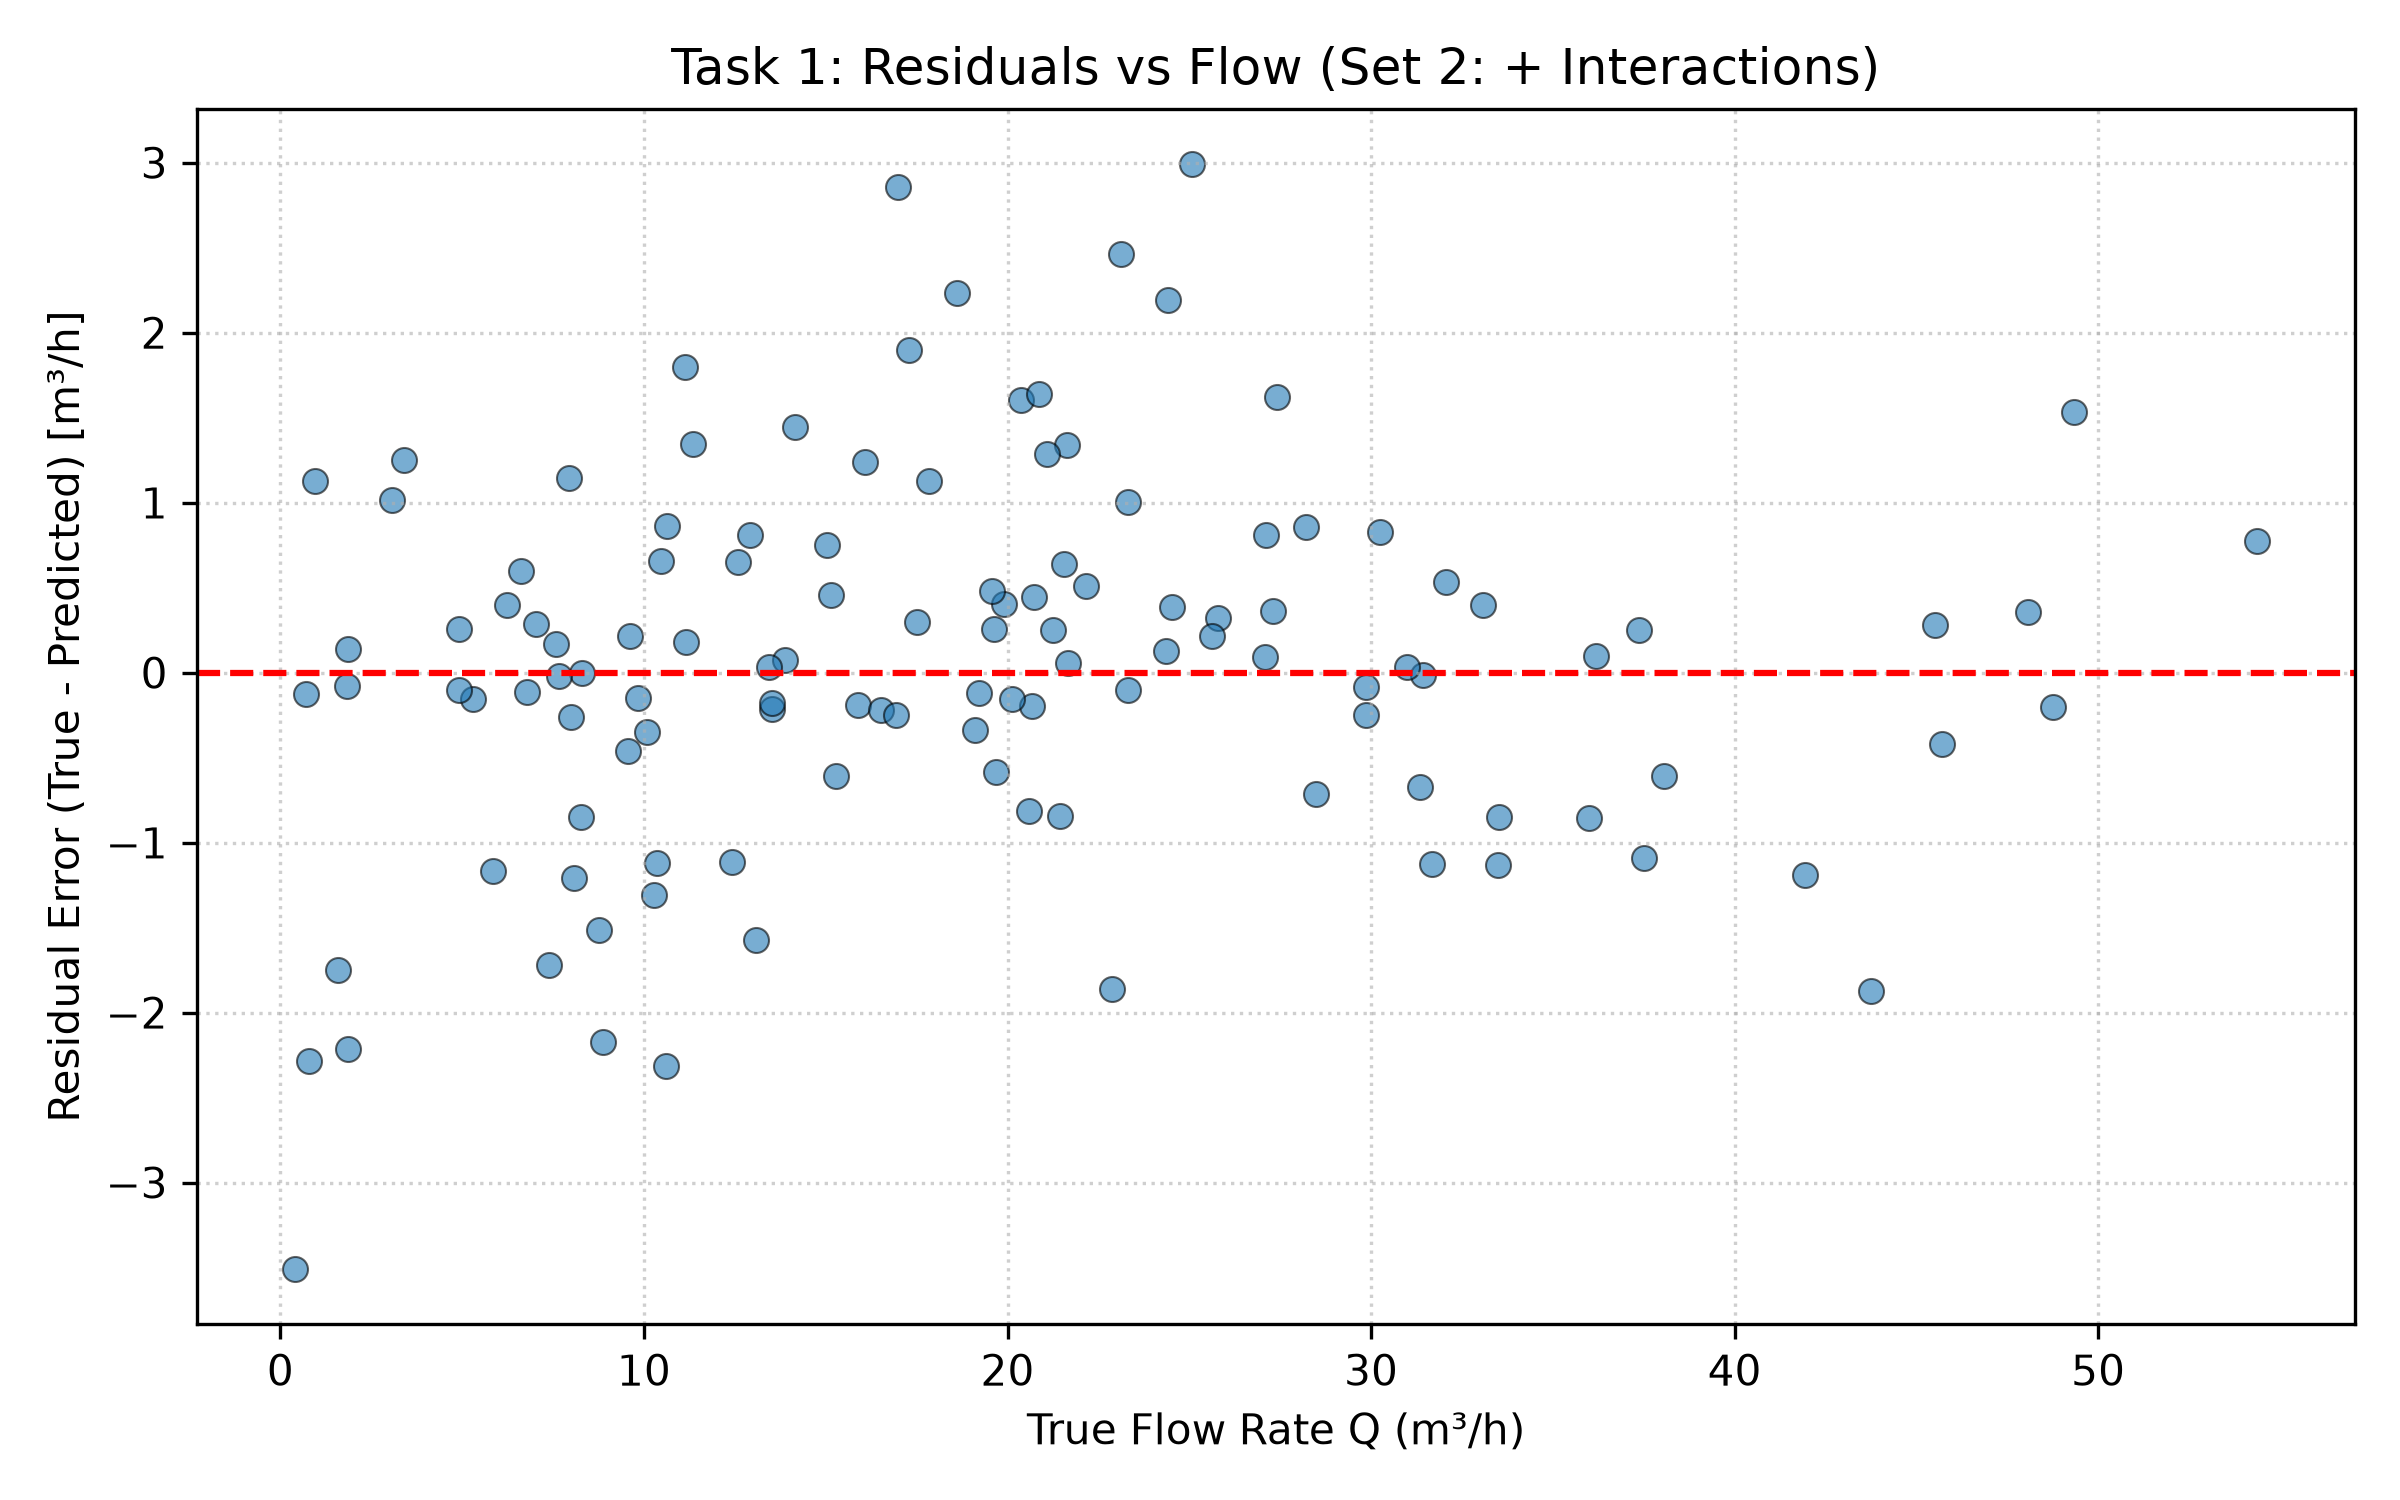
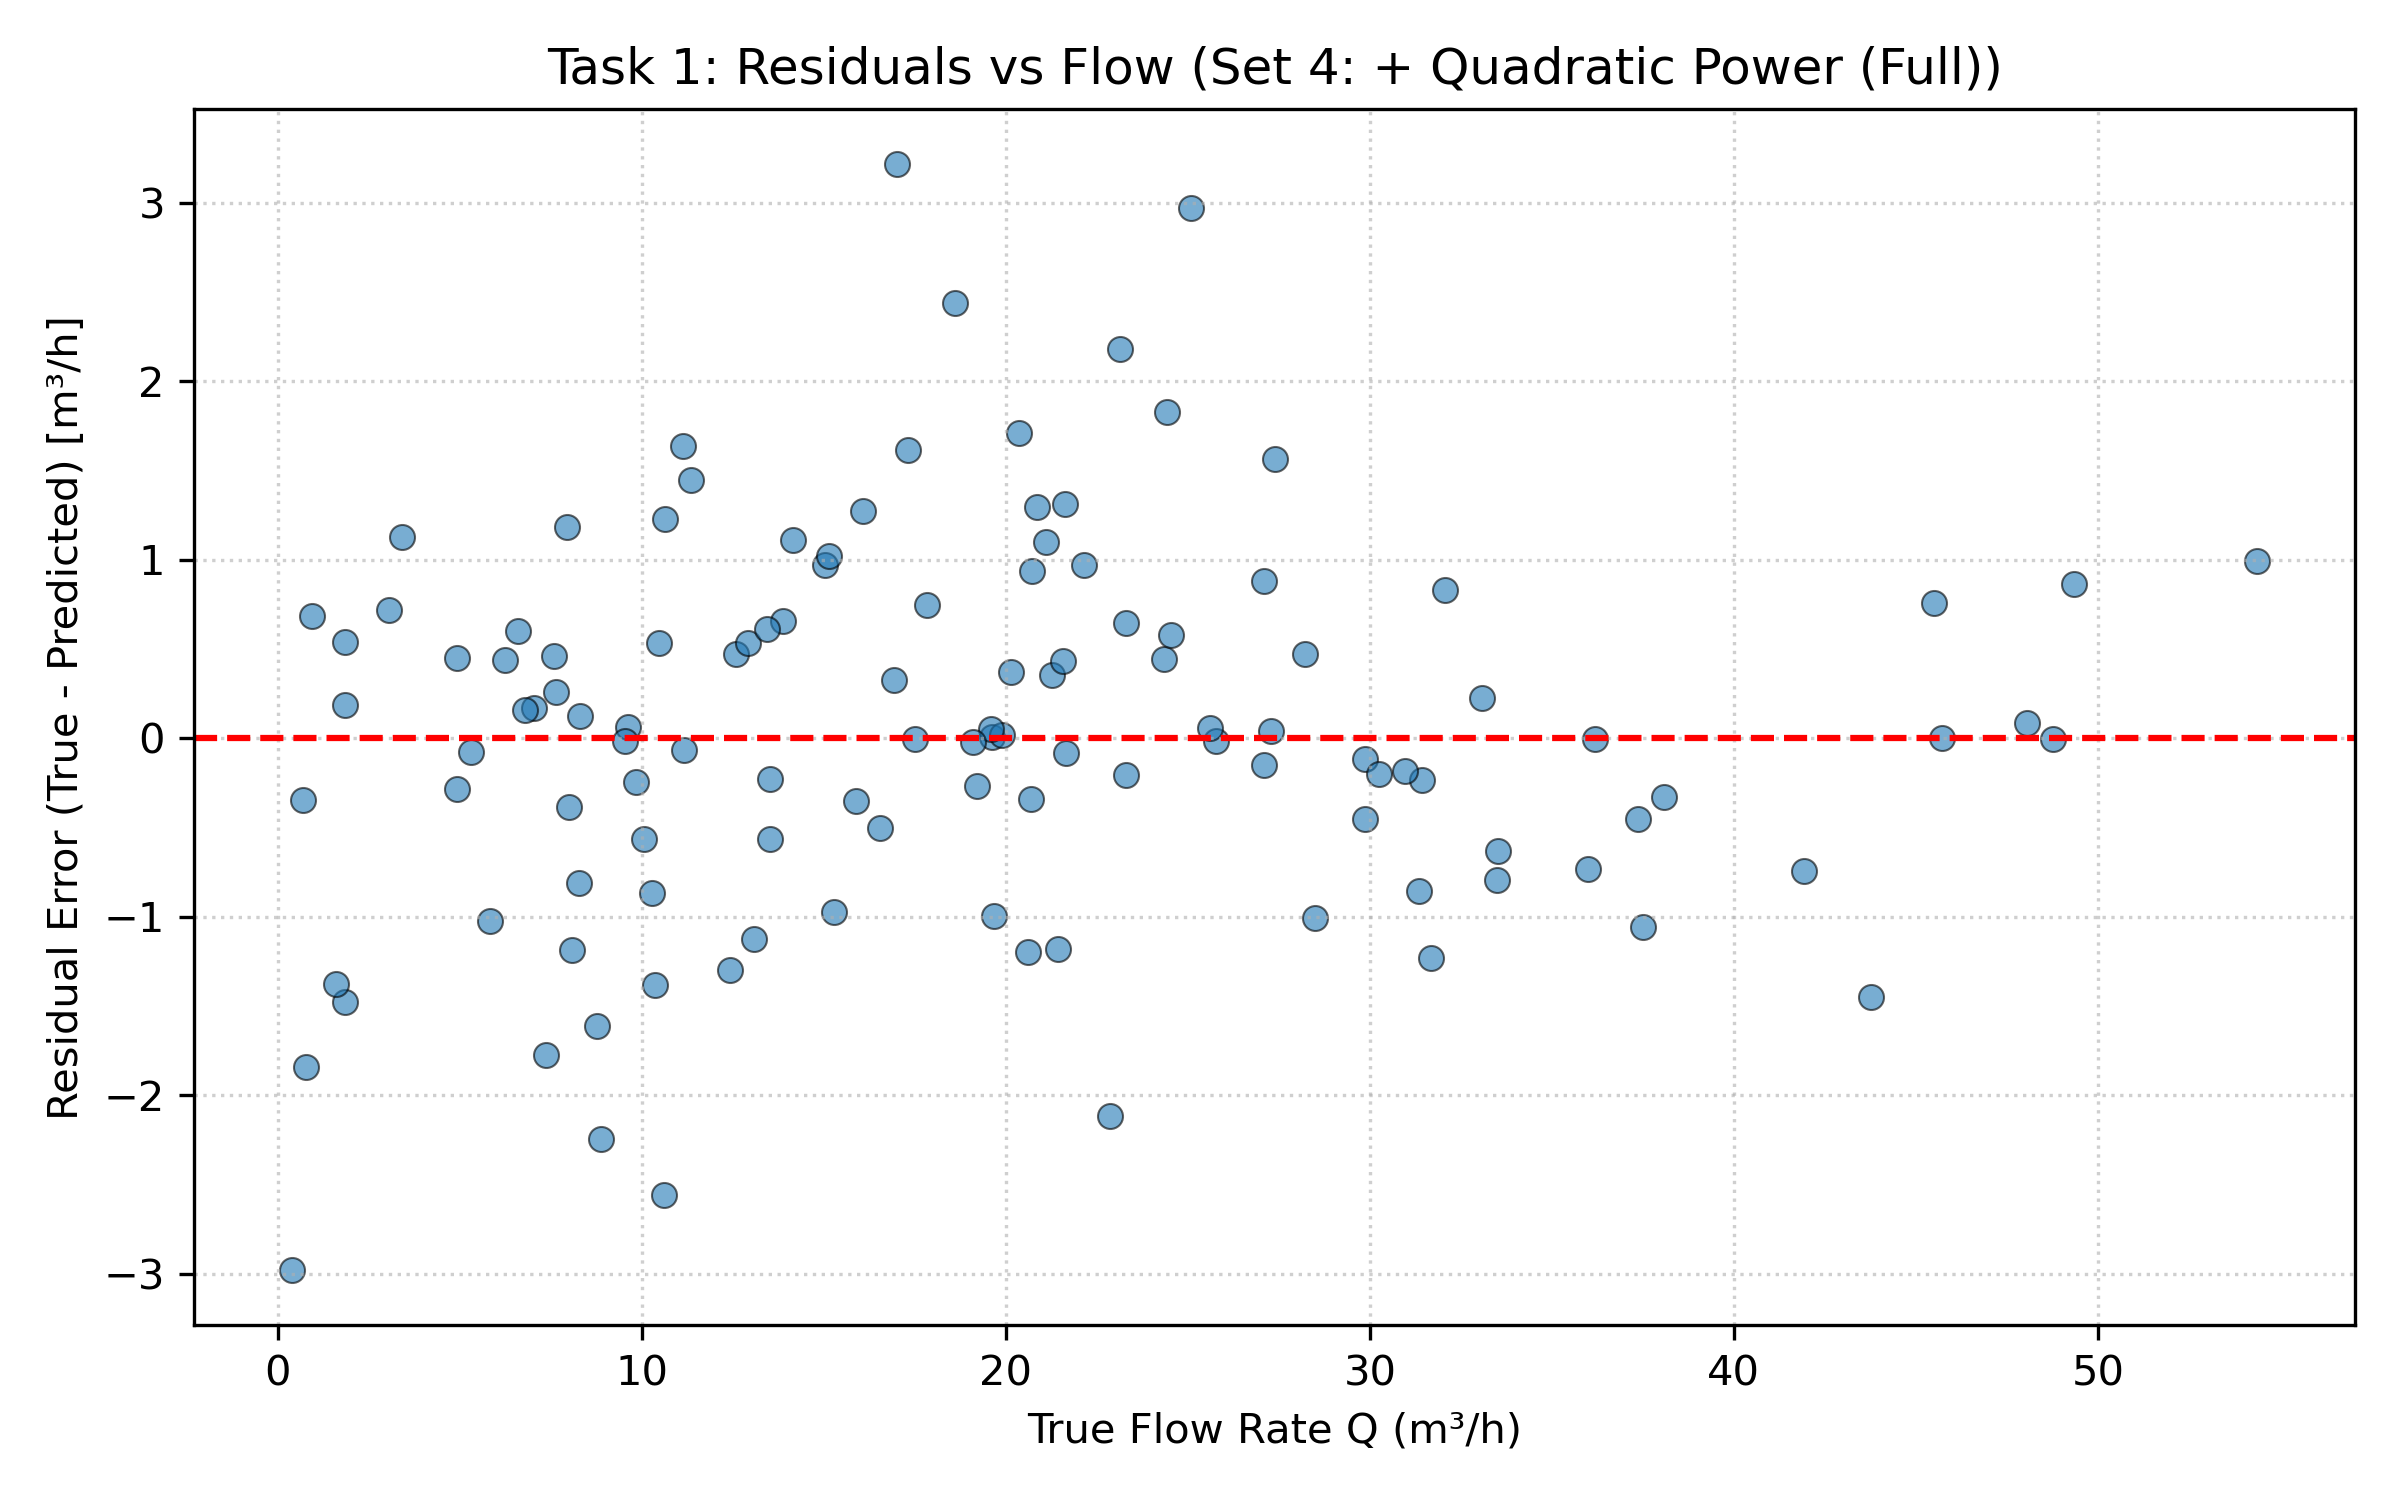
updating task1 with an extra feature

diff --git a/src/task1.py b/src/task1.py
@@ -1,0 +1,116 @@
+from pathlib import Path
+import numpy as np
+import pandas as pd
+import matplotlib.pyplot as plt
+from sklearn.linear_model import LinearRegression
+from sklearn.model_selection import KFold, cross_val_score
+from sklearn.metrics import mean_squared_error, mean_absolute_error, r2_score
+
+ROOT = Path(__file__).resolve().parent.parent if "__file__" in globals() else Path.cwd().parent
+
+# 1. Load Data
+train1 = pd.read_csv(ROOT / "data/case1/train1.csv")
+test1 = pd.read_csv(ROOT / "data/case1/test1.csv")
+
+# 2. Feature Engineering Function
+def add_feature_combinations(df):
+    df = df.copy()
+    
+    df['speed_krpm'] = df['speed_rpm'] / 1000.0
+    df['delta_p'] = df['outlet_pressure_bar'] - df['inlet_pressure_bar']
+    
+    df['speed_x_delta_p'] = df['speed_krpm'] * df['delta_p']      # interaction
+    df['power_per_speed'] = df['power_w'] / (df['speed_krpm'] + 1e-6)  # power ratio
+    df['speed_sq'] = df['speed_krpm'] ** 2                         # quadratic speed
+    df['delta_p_sq'] = df['delta_p'] ** 2                          # quadratic pressure
+    df['power_sq'] = df['power_w'] ** 2                            # quadratic power
+    return df
+
+train1_fe = add_feature_combinations(train1)
+test1_fe = add_feature_combinations(test1)
+
+y_train = train1_fe['flow_m3_h']
+y_test = test1_fe['flow_m3_h']
+
+# 3. Define Candidate Feature Sets to Compare via CV
+feature_sets = {
+    'Set 1: Raw Features': ['speed_krpm', 'power_w', 'delta_p'],
+    'Set 2: + Interactions': ['speed_krpm', 'power_w', 'delta_p', 'speed_x_delta_p', 'power_per_speed'],
+    'Set 3: + Quadratic Terms': ['speed_krpm', 'power_w', 'delta_p', 'speed_x_delta_p', 'power_per_speed', 'speed_sq', 'delta_p_sq'],
+    'Set 4: + Quadratic Power (Full)': ['speed_krpm', 'power_w', 'delta_p', 'speed_x_delta_p', 'power_per_speed', 'speed_sq', 'delta_p_sq', 'power_sq']
+}
+
+# 4. Run 5-Fold Cross-Validation on train1
+cv = KFold(n_splits=5, shuffle=True, random_state=42)
+cv_results = {}
+
+print("=== 5-FOLD CROSS-VALIDATION ON TRAIN1 ===")
+for name, cols in feature_sets.items():
+    scores = cross_val_score(
+        LinearRegression(), 
+        train1_fe[cols], 
+        y_train, 
+        cv=cv, 
+        scoring='neg_root_mean_squared_error'
+    )
+    mean_rmse = -scores.mean()
+    std_rmse = scores.std()
+    cv_results[name] = (mean_rmse, cols)
+    print(f"{name:32s} | CV RMSE: {mean_rmse:.4f} ± {std_rmse:.4f} m³/h")
+    
+# 5. Select Best Feature Set Automatically Based on CV
+best_set_name = min(cv_results, key=lambda k: cv_results[k][0])
+best_cols = cv_results[best_set_name][1]
+print(f"\n-> Selected Best Feature Set: {best_set_name}")
+
+# 6. Fit Final Model on train1 & Evaluate on test1
+final_model = LinearRegression()
+final_model.fit(train1_fe[best_cols], y_train)
+y_pred = final_model.predict(test1_fe[best_cols])
+
+residuals = y_test - y_pred
+test_rmse = np.sqrt(mean_squared_error(y_test, y_pred))
+test_mae = mean_absolute_error(y_test, y_pred)
+test_r2 = r2_score(y_test, y_pred)
+test_max_ae = np.max(np.abs(residuals))
+
+print("\n=== FINAL HELD-OUT TEST1 EVALUATION ===")
+print(f"Test RMSE : {test_rmse:.4f} m³/h")
+print(f"Test MAE  : {test_mae:.4f} m³/h")
+print(f"Test R²   : {test_r2:.4f}")
+print(f"Max AE    : {test_max_ae:.4f} m³/h")
+
+print("\n=== BEST MODEL PARAMETERS ===")
+print(f"Intercept (beta_0): {final_model.intercept_:.6f}")
+for col, coef in zip(best_cols, final_model.coef_):
+    print(f"beta_{col:15s}: {coef:.6f}")
+
+# 7. Save Diagnostic Plots for Report
+fig_dir = ROOT / "report/figures"
+fig_dir.mkdir(parents=True, exist_ok=True)
+
+# Plot A: Residuals vs True Flow
+plt.figure(figsize=(8, 5))
+plt.scatter(y_test, residuals, alpha=0.6, color="#1f77b4", edgecolors="k", linewidth=0.5)
+plt.axhline(0, color="red", linestyle="--", linewidth=1.5)
+plt.xlabel("True Flow Rate Q (m³/h)")
+plt.ylabel("Residual Error (True - Predicted) [m³/h]")
+plt.title(f"Task 1: Residuals vs Flow ({best_set_name})")
+plt.grid(True, linestyle=":", alpha=0.6)
+plt.tight_layout()
+plt.savefig(fig_dir / "task1_residuals_vs_flow.png", dpi=300)
+plt.show()
+
+# Plot B: Actual vs Predicted Flow
+plt.figure(figsize=(7, 6))
+plt.scatter(y_test, y_pred, alpha=0.6, color="#1f77b4", edgecolors="k", linewidth=0.5)
+limits = [min(y_test.min(), y_pred.min()), max(y_test.max(), y_pred.max())]
+plt.plot(limits, limits, "k--", linewidth=1.5, label="Perfect prediction")
+plt.xlabel("Actual Flow Rate Q (m³/h)")
+plt.ylabel("Predicted Flow Rate Q (m³/h)")
+plt.title(f"Task 1: Actual vs Predicted Flow ({best_set_name})")
+plt.legend()
+plt.grid(True, linestyle=":", alpha=0.6)
+plt.tight_layout()
+plt.savefig(fig_dir / "task1_actual_vs_predicted.png", dpi=300)
+plt.show()
